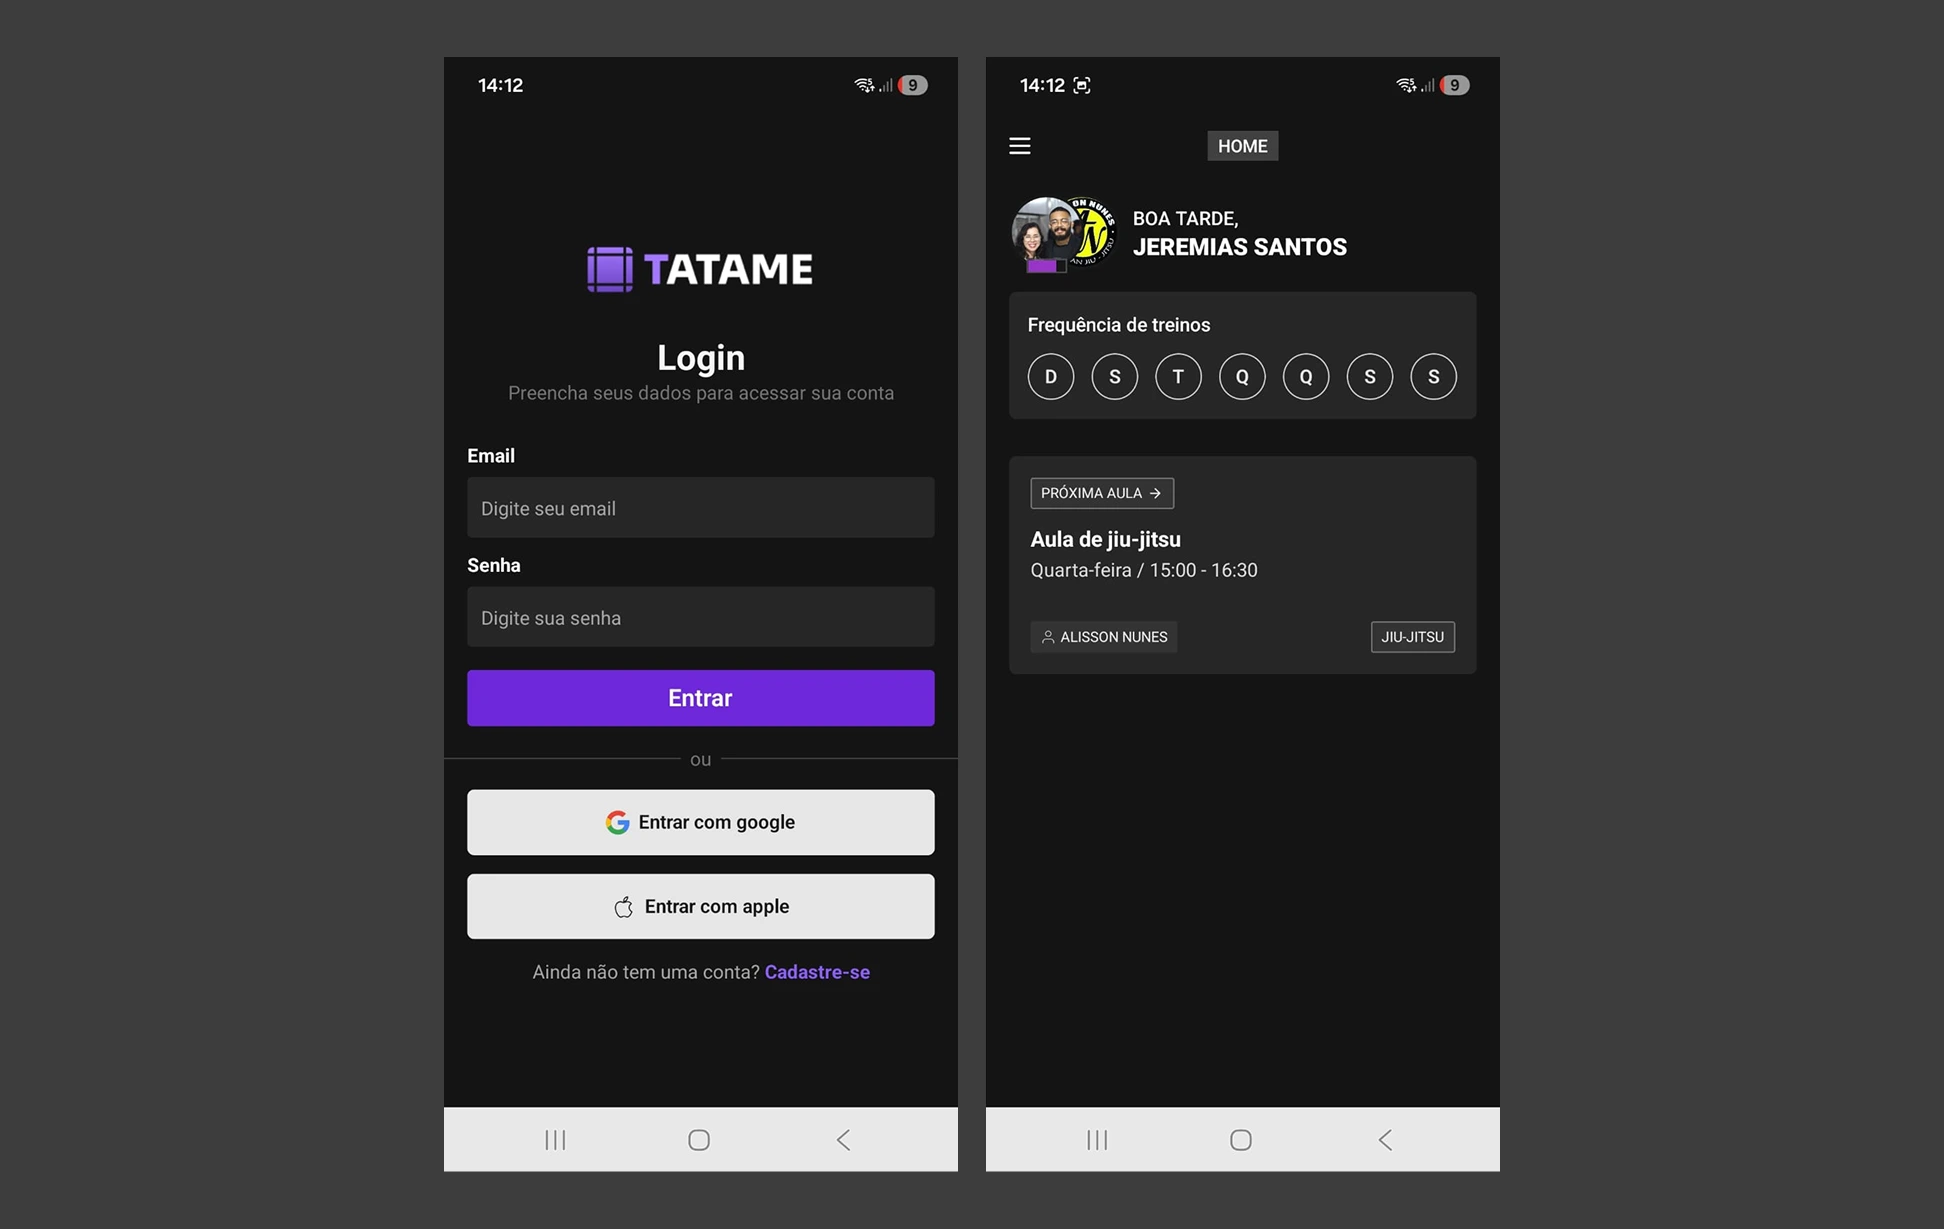
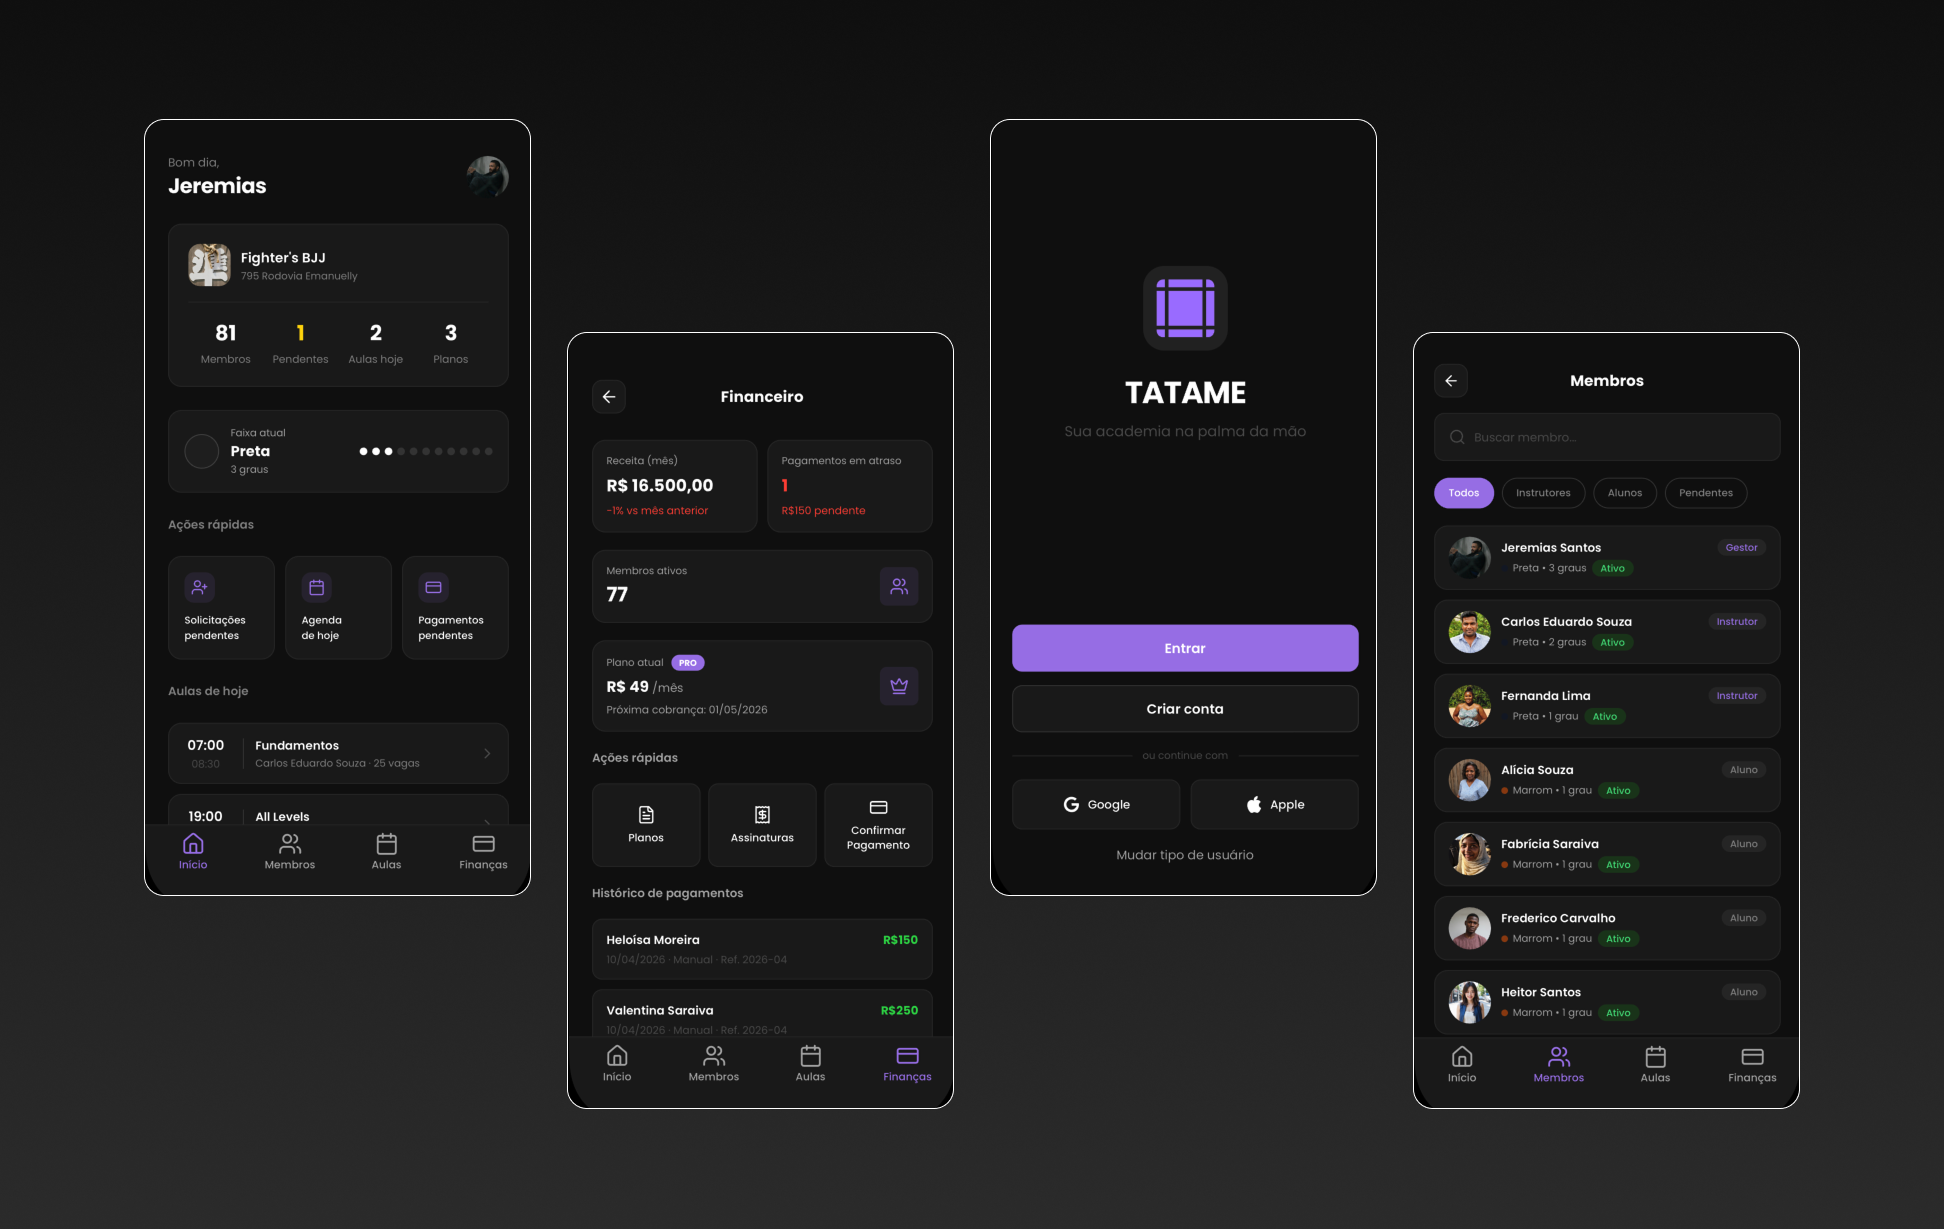
feat: mark tatame as launched and refresh project card
- add live URL (apptatame.com.br) and note real customers in descriptions
- remove now-private repo link; make repo button conditional
- replace tatame images with single webp
- rename live button to "ver online" / "view online"

diff --git a/src/components/sections/project-card.tsx b/src/components/sections/project-card.tsx
@@ -57,14 +57,16 @@ export function ProjectCard({
           </div>
 
           <div className="flex flex-col gap-2 sm:mt-5 sm:flex-row sm:items-center sm:gap-3 lg:mt-auto">
-            <a
-              href={project.repoUrl}
-              target="_blank"
-              rel="noreferrer"
-              className="inline-flex items-center justify-center rounded border border-border bg-transparent px-4 py-2 font-mono text-[12px] font-medium text-foreground transition-opacity hover:opacity-90"
-            >
-              {repoLabel}
-            </a>
+            {project.repoUrl ? (
+              <a
+                href={project.repoUrl}
+                target="_blank"
+                rel="noreferrer"
+                className="inline-flex items-center justify-center rounded border border-border bg-transparent px-4 py-2 font-mono text-[12px] font-medium text-foreground transition-opacity hover:opacity-90"
+              >
+                {repoLabel}
+              </a>
+            ) : null}
             {project.liveUrl ? (
               <a
                 href={project.liveUrl}

diff --git a/src/data/projects.ts b/src/data/projects.ts
@@ -2,17 +2,14 @@ export interface ProjectItem {
   slug: "tatame" | "lofi_focus" | "devroast";
   images: string[];
   techStack: string[];
-  repoUrl: string;
+  repoUrl?: string;
   liveUrl?: string;
 }
 
 export const projects: ProjectItem[] = [
   {
     slug: "tatame",
-    images: [
-      "/images/projects/tatame/image1.webp",
-      "/images/projects/tatame/image2.webp",
-    ],
+    images: ["/images/projects/tatame/image1.webp"],
     techStack: [
       "react native",
       "expo",
@@ -22,7 +19,7 @@ export const projects: ProjectItem[] = [
       "typescript",
       "clerk",
     ],
-    repoUrl: "https://github.com/jeremiassnts/tatame",
+    liveUrl: "https://apptatame.com.br",
   },
   {
     slug: "lofi_focus",
